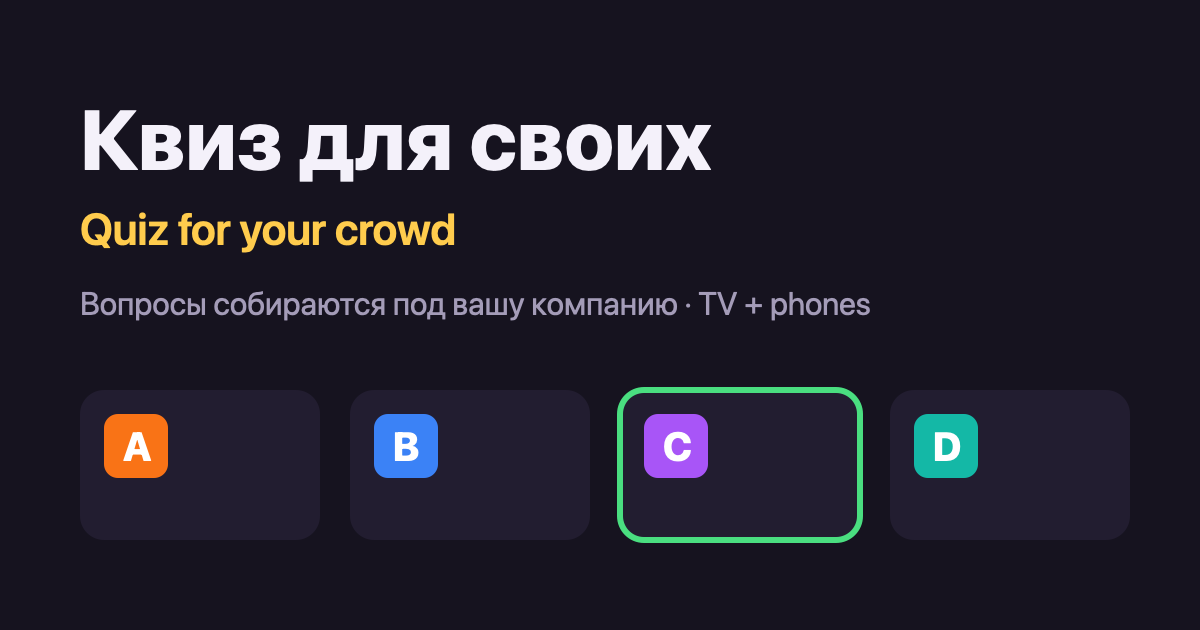
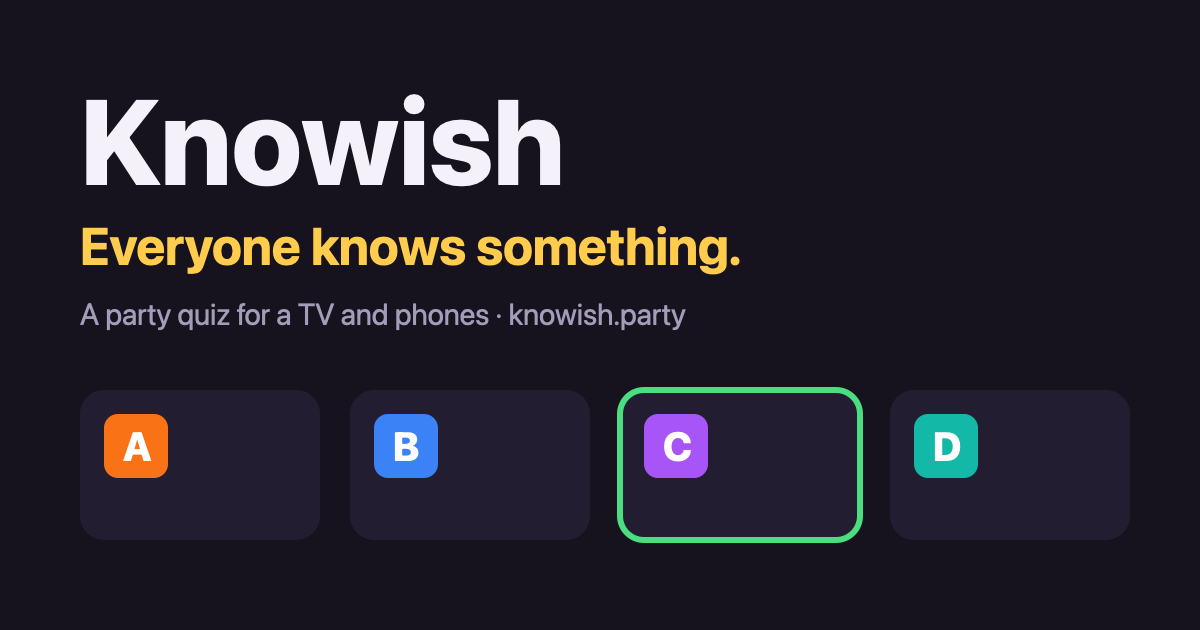
Go live on knowish.party as Knowish (EPIC 38)
- Production on knowish.party and www.knowish.party; workers.dev kept as a backup,
  no per-version preview URLs
- Brand: Knowish — "Everyone knows something." / «Каждый что-то знает.»;
  new title, Open Graph tags and preview image
- Saturday runbook: setup, during the game, troubleshooting, after the game
- Backlog: L-03 and L-08 done

Changed region(s): [[0.0617, 0.3317, 0.74, 0.5429], [0.0617, 0.1508, 0.5858, 0.3016]]

diff --git a/apps/web/index.html b/apps/web/index.html
@@ -4,16 +4,15 @@
     <meta charset="UTF-8" />
     <meta name="viewport" content="width=device-width, initial-scale=1, viewport-fit=cover" />
     <meta name="theme-color" content="#16131f" />
-    <title>Квиз для своих</title>
-    <!-- Link previews in messengers (EPIC 38, L-05). og:url / og:image need the public address:
-         update SITE when the custom domain is connected (L-03). -->
-    <meta name="description" content="Квиз для компании: общий экран и телефоны, вопросы подбираются под интересы игроков. Quiz for your crowd — questions that tune themselves to your group." />
+    <title>Knowish</title>
+    <!-- Link previews in messengers (EPIC 38, L-05). og:url / og:image need an absolute public address. -->
+    <meta name="description" content="Knowish — everyone knows something. A party quiz for a TV and phones, with questions that tune themselves to your group. Квиз для компании: вопросы подбираются под игроков." />
     <meta property="og:type" content="website" />
-    <meta property="og:site_name" content="Квиз для своих · Quiz for your crowd" />
-    <meta property="og:title" content="Квиз для своих · Quiz for your crowd" />
-    <meta property="og:description" content="Общий экран + телефоны, вопросы под вашу компанию. TV + phones, questions that tune themselves to your group." />
-    <meta property="og:url" content="https://quiz.ykhtskvch.workers.dev/" />
-    <meta property="og:image" content="https://quiz.ykhtskvch.workers.dev/og.png" />
+    <meta property="og:site_name" content="Knowish" />
+    <meta property="og:title" content="Knowish — Everyone knows something." />
+    <meta property="og:description" content="A party quiz for a TV and phones — questions tune themselves to your group. Квиз для компании: общий экран и телефоны." />
+    <meta property="og:url" content="https://knowish.party/" />
+    <meta property="og:image" content="https://knowish.party/og.png" />
     <meta property="og:image:width" content="1200" />
     <meta property="og:image:height" content="630" />
     <meta name="twitter:card" content="summary_large_image" />

diff --git a/apps/web/src/strings.ts b/apps/web/src/strings.ts
@@ -12,7 +12,8 @@ function ruPlural(n: number, one: string, few: string, many: string) {
 const enNf = new Intl.NumberFormat("en-GB");
 
 const ru = {
-  appName: "Квиз для своих",
+  appName: "Knowish",
+  slogan: "Каждый что-то знает.",
   beta: "Бета",
   howTo: "Откройте эту страницу на ТВ или ноутбуке и создайте комнату — игроки заходят по QR-коду с телефонов.",
   privacyTitle: "Без аккаунтов. Что мы храним?",
@@ -165,7 +166,8 @@ const ru = {
 };
 
 const en: Strings = {
-  appName: "Quiz for your crowd",
+  appName: "Knowish",
+  slogan: "Everyone knows something.",
   beta: "Beta",
   howTo: "Open this page on a TV or laptop and create a room — players join by scanning the QR code with their phones.",
   privacyTitle: "No accounts. What do we keep?",

diff --git a/apps/web/src/pages/Home.tsx b/apps/web/src/pages/Home.tsx
@@ -31,6 +31,7 @@ export function Home() {
   return (
     <main className="home">
       <h1>{t.appName}</h1>
+      <p className="slogan">{t.slogan}</p>
       <p className="muted">{t.tagline}</p>
       <p className="how-to">{t.howTo}</p>
       <BetaBadge />

diff --git a/apps/web/src/styles.css b/apps/web/src/styles.css
@@ -1201,3 +1201,11 @@ button.link {
   line-height: 1.45;
 }
 
+/* Brand: Knowish — "Everyone knows something." */
+.slogan {
+  margin: 0.25rem 0 0.5rem;
+  font-size: 1.35rem;
+  font-weight: 700;
+  color: var(--accent);
+}
+

diff --git a/docs/playtest/saturday-runbook.md b/docs/playtest/saturday-runbook.md
@@ -1,0 +1,43 @@
+# Суббота, 10.10: памятка ведущего
+
+Адрес: **https://knowish.party**. Запасной: **https://quiz.ykhtskvch.workers.dev** (тот же сайт, та же игра).
+
+## Накануне (пятница вечером)
+
+- [ ] Генеральная репетиция прошла, правки задеплоены. После этого — **ничего не деплоить до игры**.
+- [ ] Очистить production-аналитику после всех тестов, чтобы в субботней статистике были только настоящие игры:
+      `cd apps/worker && npx wrangler d1 execute quiz-analytics --env production --remote --command "DELETE FROM question_stats; DELETE FROM answer_option_stats; DELETE FROM game_sessions; DELETE FROM session_feedback;"`
+- [ ] Перед игрой не открывать вопросы в инструменте проверки (иначе они будут «знакомыми»).
+
+## Перед началом (за 10 минут)
+
+1. Общий экран — ТВ или ноутбук. Открыть **knowish.party**, выбрать язык игры, нажать «Создать игру».
+   - Адрес экрана с `#t=…` в конце — это ключ экрана. Вкладку не закрывать; перезагрузка (F5) безопасна.
+   - Яркость и масштаб: вопрос должен читаться с дивана. При необходимости — масштаб браузера.
+2. **Первым** со своего телефона заходишь ты — первый вошедший становится ведущим (пауза, пропуск, «Закончить», «Сыграть ещё»).
+3. Остальные сканируют QR с экрана (или вводят код на knowish.party). Каждый проходит короткий онбординг на своём телефоне.
+4. Когда у всех «Готов» — «Начать» на телефоне ведущего. Игра — 20 вопросов, правила очков видны в лобби.
+
+## Во время игры
+
+- **Ошибка в вопросе** («так не бывает», «два правильных») — «Пропустить» на телефоне ведущего. Запомнить номер вопроса — после игры найти его в `npm run content:review`.
+- **Перерыв** — «Пауза»; таймер замирает, после «Продолжить» оставшееся время восстанавливается.
+- **Закончить раньше** — «Закончить», затем «Точно закончить?» в течение 3 секунд. Итоги считаются по сыгранным вопросам.
+
+## Если что-то сломалось
+
+| Что | Что делать |
+|---|---|
+| Экран завис / пишет «Переподключение…» дольше 10 секунд | Обновить страницу экрана (F5). Ключ в адресе — игра продолжится с того же места. |
+| Телефон игрока отвалился, заблокировался | Открыть ссылку снова **в том же браузере** — игрок вернётся в комнату со своими очками. |
+| Пропал телефон ведущего | С того же телефона и браузера — вернётся ведущим. Если телефона нет совсем: текущая игра доиграет сама, для новой — создать новую комнату. |
+| Новый игрок пришёл посреди игры | Пусть заходит по QR — включится со следующего вопроса. |
+| Сайт не открывается | Запасной адрес **quiz.ykhtskvch.workers.dev**. |
+| Что-то странное и непонятное | Создать новую комнату — это 30 секунд. Время и что произошло — записать: логи — Cloudflare → Workers → `quiz` → Logs. |
+
+## После игры
+
+- Попросить всех заполнить короткую анкету на телефоне (главное — «Хочется сыграть ещё?»); оценка вопросов — по желанию.
+- Записать впечатления по [чек-листу наблюдателя](observer-checklist.md), особенно спонтанное «давай ещё».
+- Отчёт: `npm run analytics -- --production`.
+- После субботы (решение L-D2): выключить черновики на production — `"ALLOW_DRAFTS": "false"` в `env.production` в `apps/worker/wrangler.jsonc`, затем `npm run deploy:production`.

diff --git a/docs/spec-v0.2/04-backlog.md b/docs/spec-v0.2/04-backlog.md
@@ -376,12 +376,12 @@ EN-интерфейс, EN-банк (GLOBAL / UK / US + bridge), US-CULT-002, NFR
 | L-10 | Метка «бета» на главной и в лобби, пока включены черновики **Сделано 06.10:** метка «Бета» с подсказкой на главной и в лобби, пока `ALLOW_DRAFTS` = "true". | я | P1 ✅ | ср |
 | L-01 | Production-окружение: worker `quiz`, статика, Durable Objects (комнаты + лимитер), своя D1 `quiz-analytics` с миграциями, логи **Сделано 06.10:** worker `quiz` → https://quiz.ykhtskvch.workers.dev; D1 `quiz-analytics` (weur) с миграцией; локальная конфигурация переименована в `quiz-dev`, голого `wrangler deploy` больше нет. | я | P0 ✅ | ср |
 | L-02 | Флаг черновиков из переменной окружения (`ALLOW_DRAFTS`), чтобы staging и production различались без правки кода **Сделано 06.10:** `ALLOW_DRAFTS` в `vars` каждого окружения (`apps/worker/src/deployment.ts`, тест); `GET /api/meta` → `{ beta }`. | я | P0 ✅ | ср |
-| L-03 | Свой домен: покупка и добавление в Cloudflare (ты), привязка к worker и проверка HTTPS (я) | ты + я | P0 | ср–чт |
+| L-03 | Свой домен: покупка и добавление в Cloudflare (ты), привязка к worker и проверка HTTPS (я) **06.10:** домен knowish.party (Cloudflare Registrar), привязан к worker `quiz` вместе с www; quiz.ykhtskvch.workers.dev оставлен запасным, превью отдельных версий выключены; превью ссылки указывает на knowish.party. Работает с 06.10: сертификат Google Trust Services, комнаты RU/EN и WebSocket проверены. Название — **Knowish**, «Everyone knows something.» / «Каждый что-то знает.». | ты + я | P0 ✅ | ср–чт |
 | L-04 | `npm run deploy:production`, smoke-тест по production, очистка production-аналитики после smoke **Сделано 06.10:** `npm run deploy:production`, `npm run db:migrate:production -w @quiz/worker`, `npm run analytics -- --production`. Production проверяется пробой без записи в аналитику (главная, `/api/meta`, комнаты RU/EN, темы, WebSocket); полный smoke — только на staging. | я | P0 ✅ | ср |
 | L-05 | Превью ссылки в мессенджерах: название, описание, картинка Open Graph, иконка **Сделано 06.10:** `og:title/description/image` (1200×630), иконка SVG и apple-touch-icon; `og:url`/`og:image` указывают на workers.dev — поменять на домен в L-03. | я | P1 ✅ | чт |
 | L-06 | Короткая заметка о приватности на главной: без аккаунтов, ник живёт только в комнате, статистика анонимная **Сделано 06.10:** «Без аккаунтов. Что мы храним?» на главной: комната удаляется через 6 ч, интересы видит только игрок, анонимная статистика без ников/кода/интересов, на устройстве — только язык и вход в комнату, cookies нет. Сверено с кодом. | я | P1 ✅ | чт |
 | L-07 | Первый экран для новичка: одна строка «как играть» (экран на ТВ/ноутбуке + телефоны) **Сделано 06.10:** строка «как играть» на главной; заодно выбор языка — две равные колонки. | я | P2 ✅ | чт |
-| L-08 | Памятка на субботу: как начать, что делать, если комната сломалась (новая комната; staging как запасная ссылка), где смотреть логи | я | P1 | пт |
+| L-08 | Памятка на субботу: как начать, что делать, если комната сломалась (новая комната; staging как запасная ссылка), где смотреть логи **06.10:** [saturday-runbook.md](../playtest/saturday-runbook.md): накануне, перед началом, во время игры, «если что-то сломалось», после игры (в т.ч. выключить черновики). | я | P1 ✅ | пт |
 | L-09 | Использовать «нравится» (`editor_rating`) как сигнал качества: любимые вопросы попадаются чаще | я | P2 | пт |
 
 ### Контент
